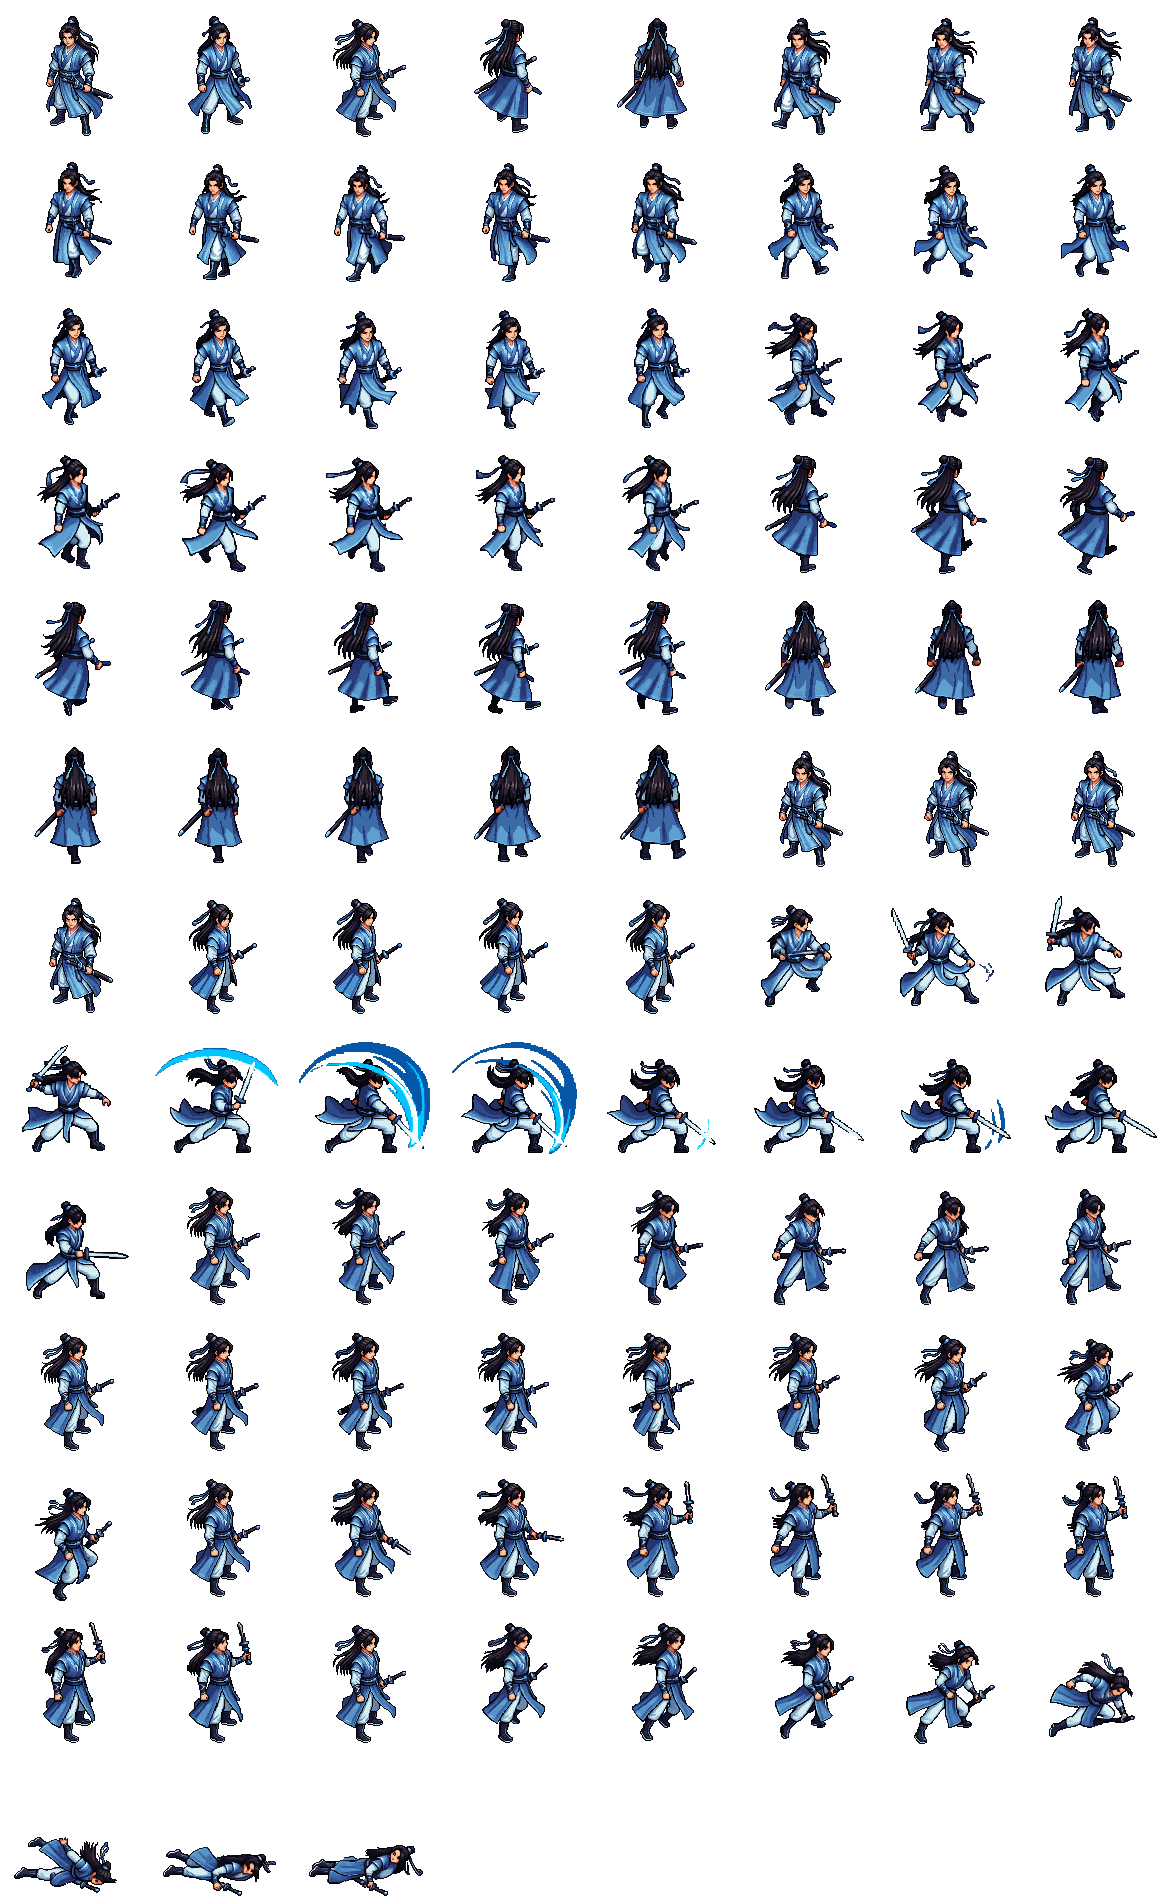
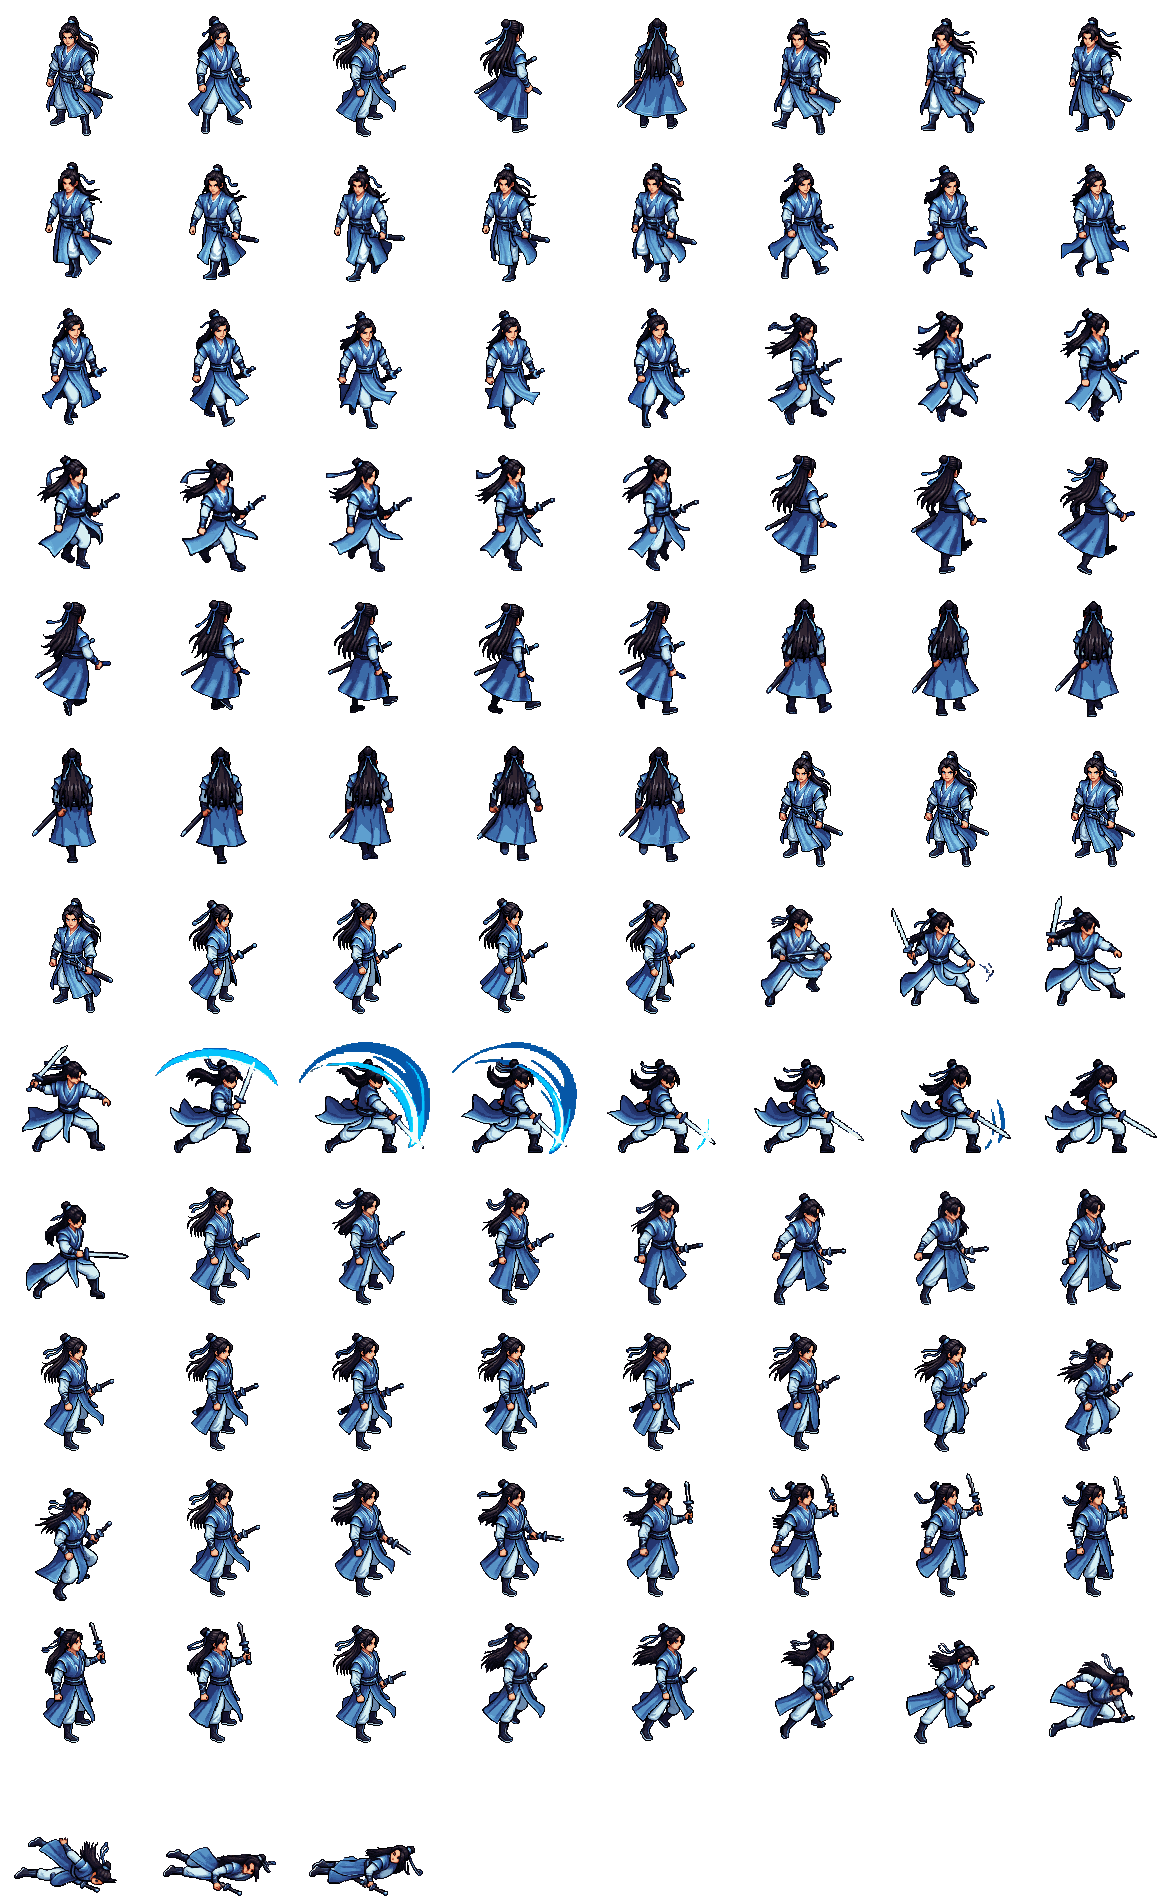
m1: walk north forward (the take stepped backward; play it reversed)
The north walk_loop take lifts each foot toward the camera, so pressing W
looked like walking backward. The sheet builder now takes a backward frame
range ("walk_loop#7-0") and m1's manifest plays the north walk reversed.

Claude-Session: https://claude.ai/code/session_015NF6nczcB9pq1DHZKmDsF7

diff --git a/scripts/build-pixellab-sheets.ts b/scripts/build-pixellab-sheets.ts
@@ -19,7 +19,8 @@
  * (`"walk_loop#0-7"` drops a loop's closing frame, which repeats its first)
  * and a list of takes plays one after another (`["attack#5-6", "slash"]`:
  * the draw of one take, then the strike of another). `"walk:east"` picks a
- * take for one direction only.
+ * take for one direction only, and a backward range (`"walk_loop#7-0"`) plays
+ * a take in reverse (m1's north walk was drawn stepping backward).
  *
  * PixelLab grows the canvas of a custom animation evenly around the character
  * (a 128 px character attacks on 172 px), so every frame is aligned by its
@@ -90,8 +91,9 @@ async function pack(id: string): Promise<PlSheet> {
     const [name, range] = spec.split("#");
     const files = framesOf(join(root, name, dir));
     if (!range) return files;
+    // "7-0" plays the frames backward: a walk drawn stepping backward becomes a forward walk.
     const [from, to] = range.split("-").map(Number);
-    return files.slice(from, to + 1);
+    return from <= to ? files.slice(from, to + 1) : files.slice(to, from + 1).reverse();
   };
   const clipOr = (name: string, dir: string) => {
     const files = takes(name, dir).flatMap((spec) => takeFrames(spec, dir));

diff --git a/lib/characters/pl-sheets-data.ts b/lib/characters/pl-sheets-data.ts
@@ -82,7 +82,7 @@ export const PL_SHEET_DATA: Record<string, PlSheet> = {
   },
   "m1": {
     "id": "m1",
-    "url": "/art/characters/pl/m1.png?v=f4e0b62e",
+    "url": "/art/characters/pl/m1.png?v=0b4763cf",
     "cell": 146,
     "columns": 8,
     "rows": 13,

diff --git a/docs/assets.md b/docs/assets.md
@@ -180,7 +180,7 @@ A person costs about 50 generations (3 to create, about 47 to animate); a beast 
 
 **Loops and strikes.** A plain v3 clip drifts away from its first pose, so a walk built from it jumps when it wraps (the last-to-first difference was about twice a normal step). Giving the same frame as start and end makes v3 come back to it: the closing frame matched the first (pixel difference under 1 against 20–40 between steps), so dropping it gives a seamless loop. A one-shot "draws and slashes" spent most of its frames standing and drawing; starting a second clip from the drawn-sword frame gives the whole clip to the swing. Prompts asking for glow can wash the body out ("her robe keeps its colours" did not help; the diagonal-slash wording did).
 
-**Templates redraw the figure; v3 keeps it.** A template clip (`walking-8-frames`, `taking-punch`, `falling-back-death`, `fight-stance-idle-8-frames`) is redrawn frame by frame from a bare skeleton: the sword came and went between walk frames, the hit and the fall started from a boxer's fists and the fall kicked into the air. Template `skeleton-v3` (the skeleton posed onto the character's own pixels) is steadier but still let the sword drift. v3 custom clips that say what must stay ("the sword stays sheathed at his hip in every frame") keep the outfit and weapon whole, so every person clip except the breathing idle is v3. A take is picked per clip in `scripts/pixellab-characters.json` (`clips`), so a re-roll under a new animation name replaces a clip without renaming anything.
+**Templates redraw the figure; v3 keeps it.** A template clip (`walking-8-frames`, `taking-punch`, `falling-back-death`, `fight-stance-idle-8-frames`) is redrawn frame by frame from a bare skeleton: the sword came and went between walk frames, the hit and the fall started from a boxer's fists and the fall kicked into the air. Template `skeleton-v3` (the skeleton posed onto the character's own pixels) is steadier but still let the sword drift. v3 custom clips that say what must stay ("the sword stays sheathed at his hip in every frame") keep the outfit and weapon whole, so every person clip except the breathing idle is v3. A take is picked per clip in `scripts/pixellab-characters.json` (`clips`), so a re-roll under a new animation name replaces a clip without renaming anything. Check every walk direction by the feet: a foot in the air should move the way the body walks. m1's north take stepped backward (the lifted foot came toward the camera), so it plays reversed (`"walk:north": "walk_loop#7-0"`); `"walk:east"` picks a take for one direction only.
 
 **Pipeline.**
 

diff --git a/docs/changelog.md b/docs/changelog.md
@@ -8,6 +8,7 @@ Pull requests are on [github.com/tao-Isaman/wuxia-world](https://github.com/tao-
 
 ### PixelLab characters: the heroes and the wolf redrawn
 
+- **m1's walk fixed:** walking north (the W key) no longer looks like stepping backward — the north take was drawn walking backward, so its frames now play in reverse (a backward range, `"walk:north": "walk_loop#7-0"`, in `scripts/pixellab-characters.json`); walking east / west uses a side-profile take.
 - **Walk loops and real slashes:** the heroes' walks now loop seamlessly (each direction re-animated from one frame back to the same frame), and their attack draws the sword and swings it in a wide arc with a blade streak instead of only drawing it.
 - The heroes **m1** and **f1** are redrawn and animated by PixelLab (style B: 128 px, high detail): vivid colours at native pixels, an 8-frame walk in eight directions, breathing idles, a sword slash, hit, guard stance, victory and a fall. The walk, hit, stance and fall are custom (v3) clips that keep the sword in place; the first template takes made the sword flicker while walking and the fall kick into the air. **Wolves** (and wild dogs) are a PixelLab beast (style C) with idle, bite and hurt clips, on the map and in battle. The styles were chosen from three candidates per kind.
 - Engine: a character atlas now carries its own clips, eight-way walk cells and `native` flag (`lib/characters/sheet.ts`, `pl-sheets.ts`); the map, battle, cutscene and preview renderers read them, so rigged and PixelLab sheets play side by side. Beasts map to sheets through `BEAST_SHEETS`.
